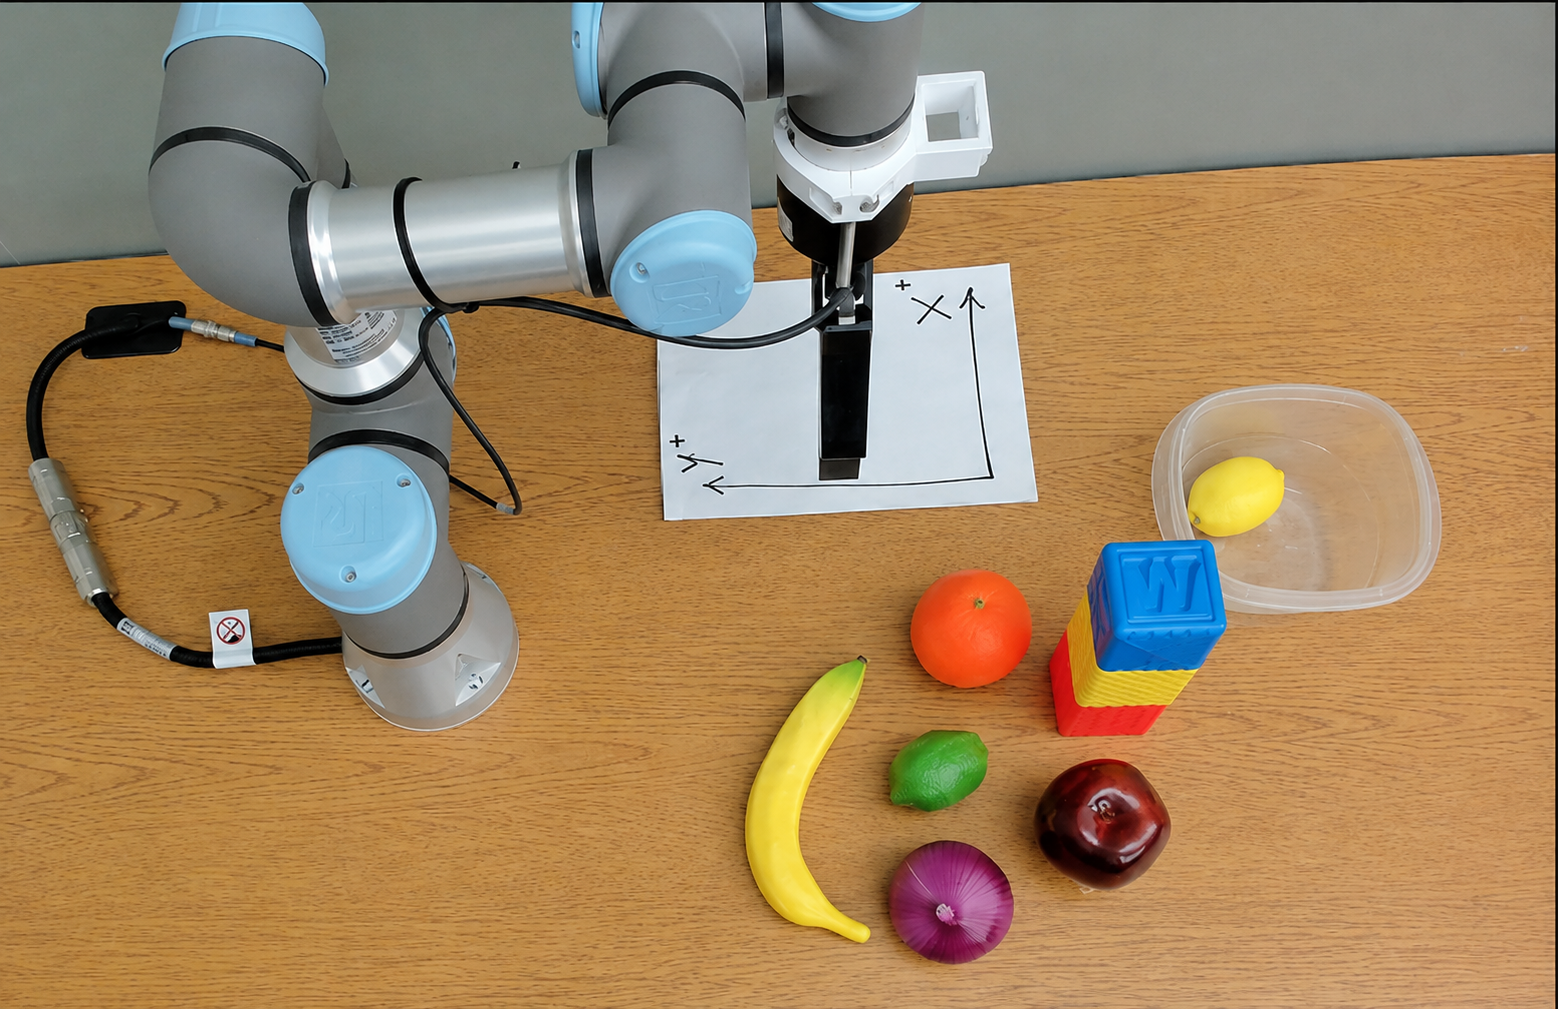
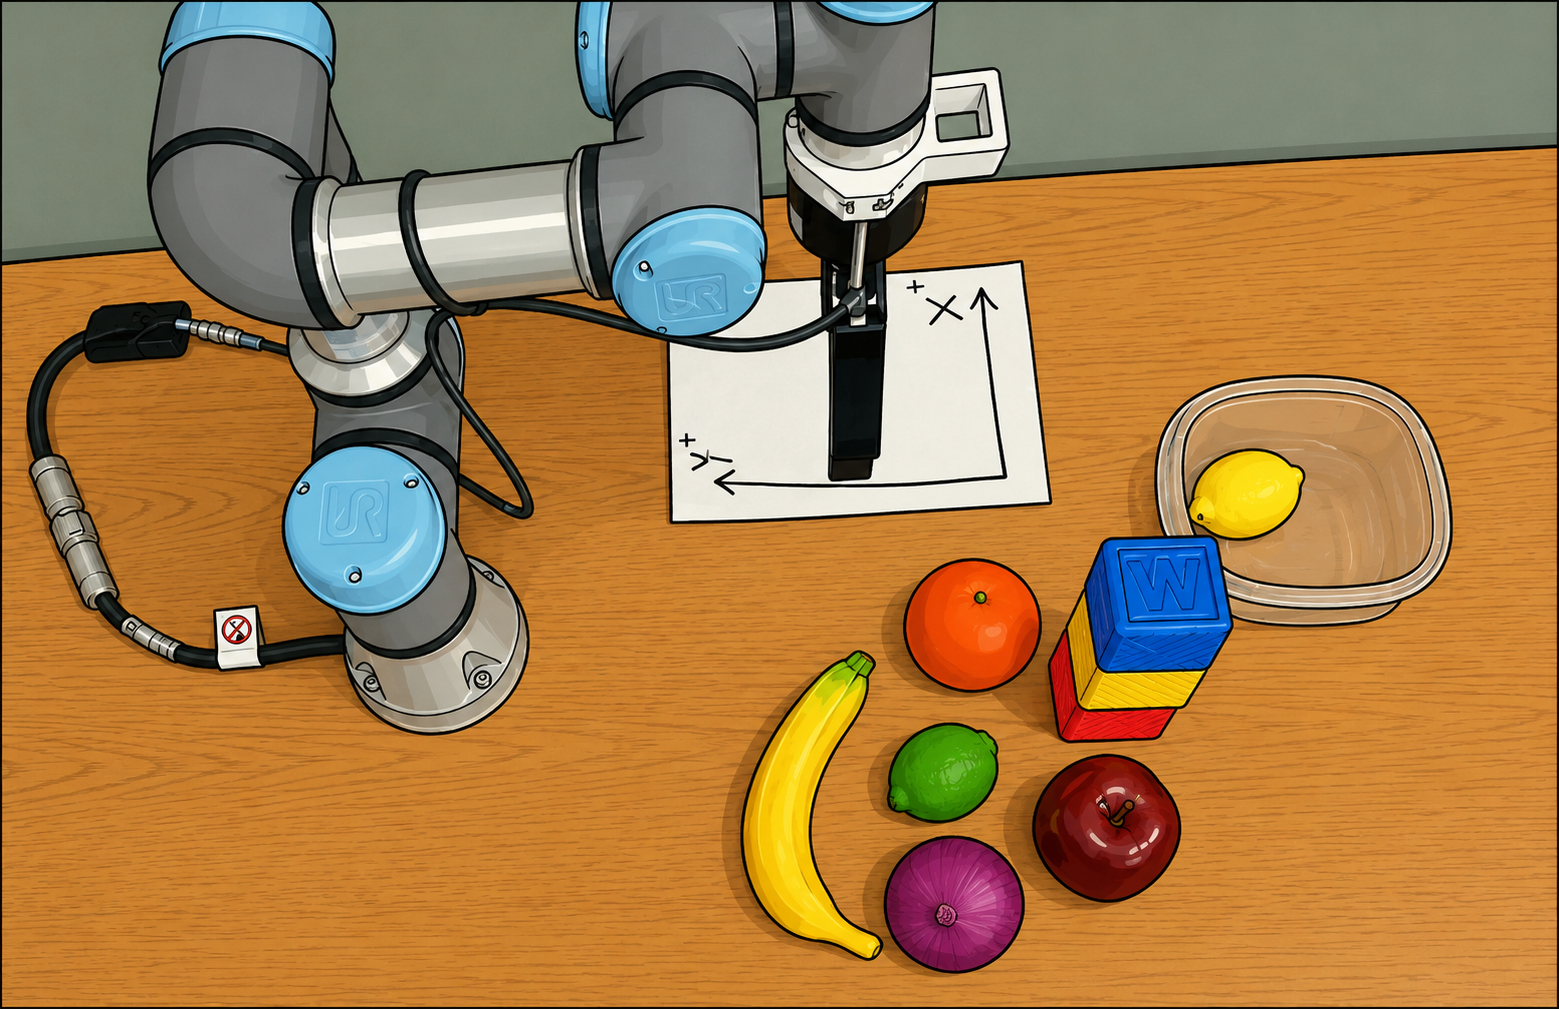
keypoint code and results added to examples

diff --git a/examples/from_scratch/robot_scene/keypoints.py b/examples/from_scratch/robot_scene/keypoints.py
@@ -1,0 +1,84 @@
+"""Keypoint visualizations built on top of segment.py's output.
+
+1. Generic corner keypoints (OpenCV Shi-Tomasi) over the whole image.
+2. Per-object keypoints (centroid + extreme points) from each object's SAM mask.
+3. Robot-arm "joint" keypoints via skeletonization of its mask (no pose model
+   exists for this robot, so joints are approximated as skeleton endpoints /
+   branch points of the arm's silhouette).
+"""
+import json
+import cv2
+import numpy as np
+import torch
+from PIL import Image, ImageDraw
+from skimage.morphology import skeletonize
+from transformers import SamModel, SamProcessor
+
+IMG_PATH = "robot_scene.png"
+SEGMENTS_PATH = "segments.json"
+
+image = Image.open(IMG_PATH).convert("RGB")
+segments = json.load(open(SEGMENTS_PATH))
+
+# ---- recompute masks for the saved boxes (segment.py doesn't persist them) ----
+device = "cuda" if torch.cuda.is_available() else "cpu"
+sam_model = SamModel.from_pretrained("facebook/sam-vit-base").to(device)
+sam_processor = SamProcessor.from_pretrained("facebook/sam-vit-base")
+
+boxes = [s["bbox_xyxy"] for s in segments]
+inputs = sam_processor(image, input_boxes=[boxes], return_tensors="pt").to(device)
+with torch.no_grad():
+    outputs = sam_model(**inputs)
+pp_masks = sam_processor.image_processor.post_process_masks(
+    outputs.pred_masks.cpu(), inputs["original_sizes"].cpu(), inputs["reshaped_input_sizes"].cpu()
+)[0]  # (num_boxes, 3, H, W) bool
+best = outputs.iou_scores[0].argmax(dim=-1).cpu()
+masks = [pp_masks[i, best[i]].numpy() for i in range(len(boxes))]
+
+# ---- 1. generic corner keypoints ----
+gray = cv2.cvtColor(np.array(image), cv2.COLOR_RGB2GRAY)
+corners = cv2.goodFeaturesToTrack(gray, maxCorners=150, qualityLevel=0.02, minDistance=8)
+corner_img = image.copy()
+draw = ImageDraw.Draw(corner_img)
+for c in corners.reshape(-1, 2):
+    x, y = c
+    draw.ellipse([x - 3, y - 3, x + 3, y + 3], outline="red", width=2)
+corner_img.save("keypoints_corners.png")
+
+# ---- 2. per-object keypoints: centroid + 4 extreme points ----
+obj_img = image.copy()
+draw = ImageDraw.Draw(obj_img)
+for seg, mask in zip(segments, masks):
+    ys, xs = np.where(mask)
+    if len(xs) == 0:
+        continue
+    cx, cy = xs.mean(), ys.mean()
+    top = (xs[ys.argmin()], ys.min())
+    bottom = (xs[ys.argmax()], ys.max())
+    left = (xs.min(), ys[xs.argmin()])
+    right = (xs.max(), ys[xs.argmax()])
+    draw.ellipse([cx - 4, cy - 4, cx + 4, cy + 4], fill="yellow", outline="black")
+    for px, py in [top, bottom, left, right]:
+        draw.ellipse([px - 3, py - 3, px + 3, py + 3], fill="cyan", outline="black")
+    draw.text((cx + 6, cy - 6), seg["label"], fill="yellow")
+obj_img.save("keypoints_objects.png")
+
+# ---- 3. robot-arm joint keypoints via skeletonization ----
+arm_img = image.copy()
+draw = ImageDraw.Draw(arm_img)
+for seg, mask in zip(segments, masks):
+    if seg["label"] != "robot arm":
+        continue
+    skeleton = skeletonize(mask)
+    ys, xs = np.where(skeleton)
+    pts = np.stack([xs, ys], axis=1)
+    for x, y in pts:
+        draw.point((x, y), fill="lime")
+    # neighbor count per skeleton pixel -> endpoints (==1) and branch points (>=3)
+    sk = skeleton.astype(np.uint8)
+    neighbor_count = cv2.filter2D(sk, -1, np.ones((3, 3), np.uint8)) * sk - sk
+    for y, x in zip(*np.where((neighbor_count == 1) | (neighbor_count >= 3))):
+        draw.ellipse([x - 5, y - 5, x + 5, y + 5], outline="red", width=2)
+arm_img.save("keypoints_robot_arm.png")
+
+print("Saved keypoints_corners.png, keypoints_objects.png, keypoints_robot_arm.png")
